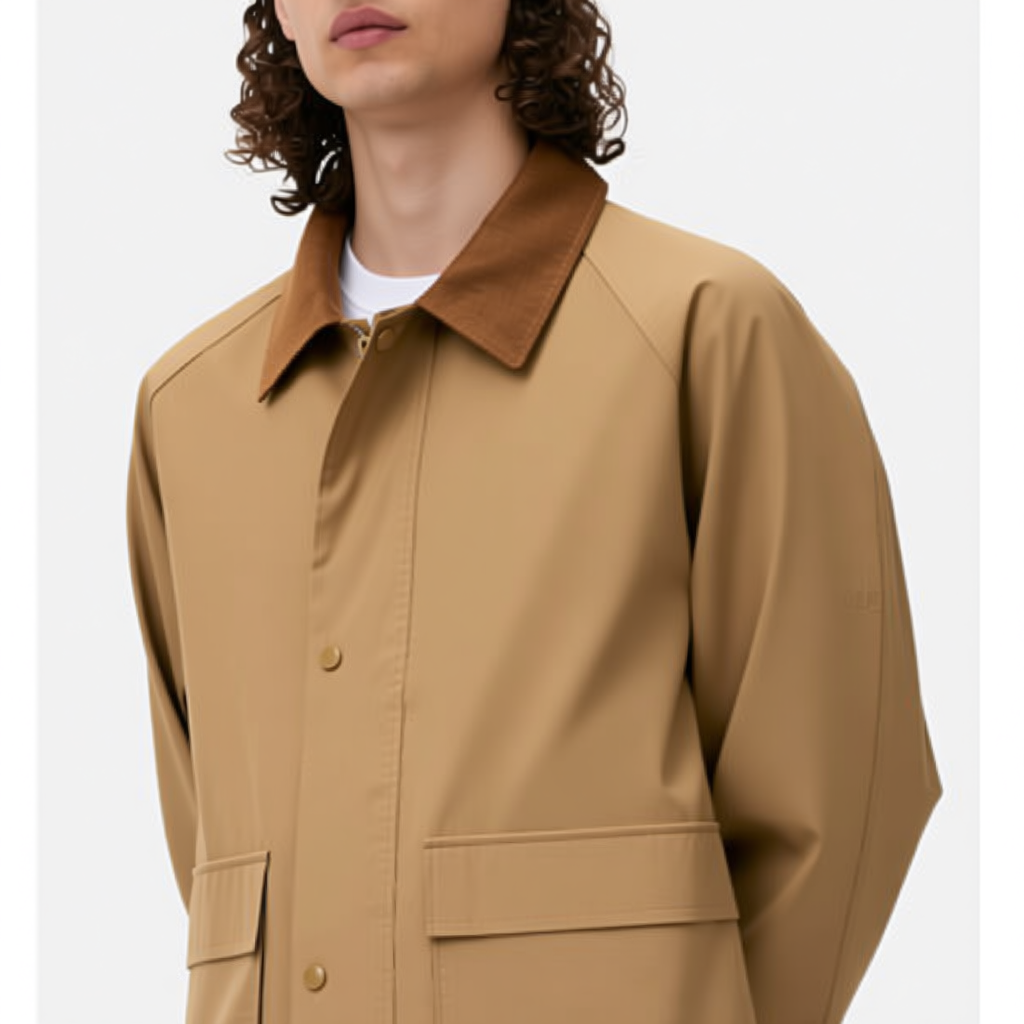
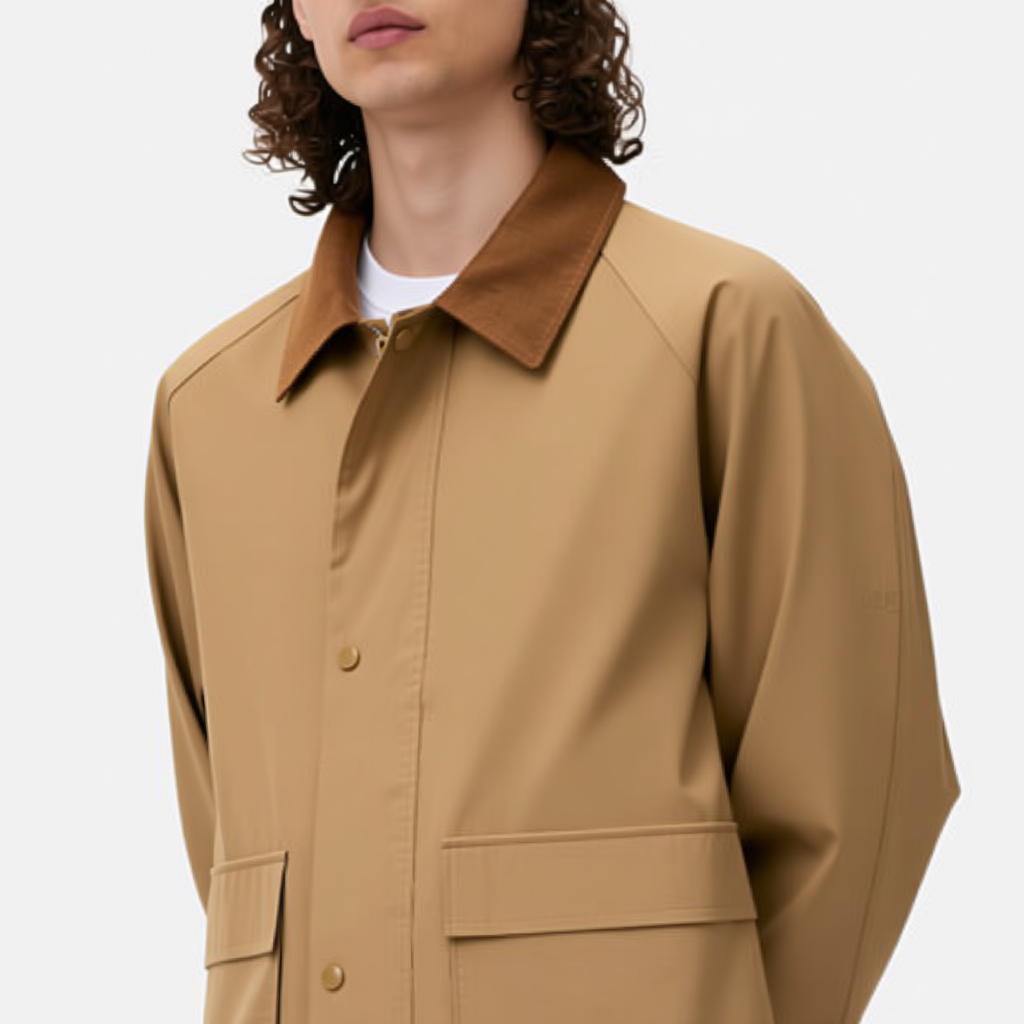
fix images in hero & Details&Care

diff --git a/src/components/DetailsAndCare.tsx b/src/components/DetailsAndCare.tsx
@@ -69,7 +69,7 @@ const DetailsAndCare: React.FC = () => {
                   className={`flex h-[400px] md:h-[500px] lg:h-[500px] xl:h-[500px] rounded-[20px] overflow-hidden ${slide.backgroundColor} shadow-[0_4px_20px_rgba(0,0,0,0.08)]`}
                 >
                   {/* Left side with image */}
-                  <div className="flex-[3] overflow-hidden">
+                  <div className="flex-[2] overflow-hidden">
                     {slide.isImage ? (
                       <img 
                         src={slide.image} 

diff --git a/src/data/slides.ts b/src/data/slides.ts
@@ -16,7 +16,7 @@ export interface CarouselSlide {
 export const slides: CarouselSlide[] = [
   {
     id: 1,
-    title: 'Everyday Durability',
+    title: "Everyday Durability",
     subtitle: 'Built to last. Crafted from sturdy cotton canvas with reinforced seams, this jacket keeps its shape while softening over time – a dependable layer that works as hard as you do.',
     video: '/baby-high-chair.mp4',
     image: detail1,

diff --git a/src/components/HeroSection.tsx b/src/components/HeroSection.tsx
@@ -149,7 +149,7 @@ const HeroSection: React.FC = () => {
                     muted
                     loop
                     playsInline
-                    className="w-full h-full object-cover"
+                    className="w-full h-full object-cover object-top"
                     key={currentMedia.src}
                   >
                     <source src={currentMedia.src} type="video/mp4" />
